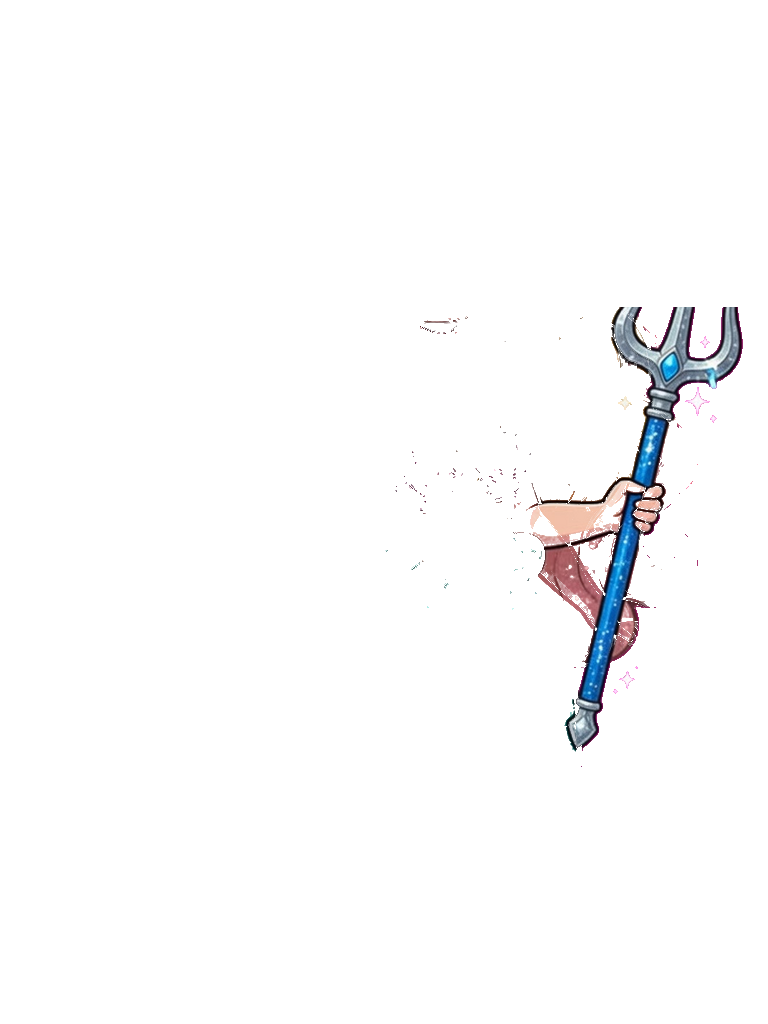
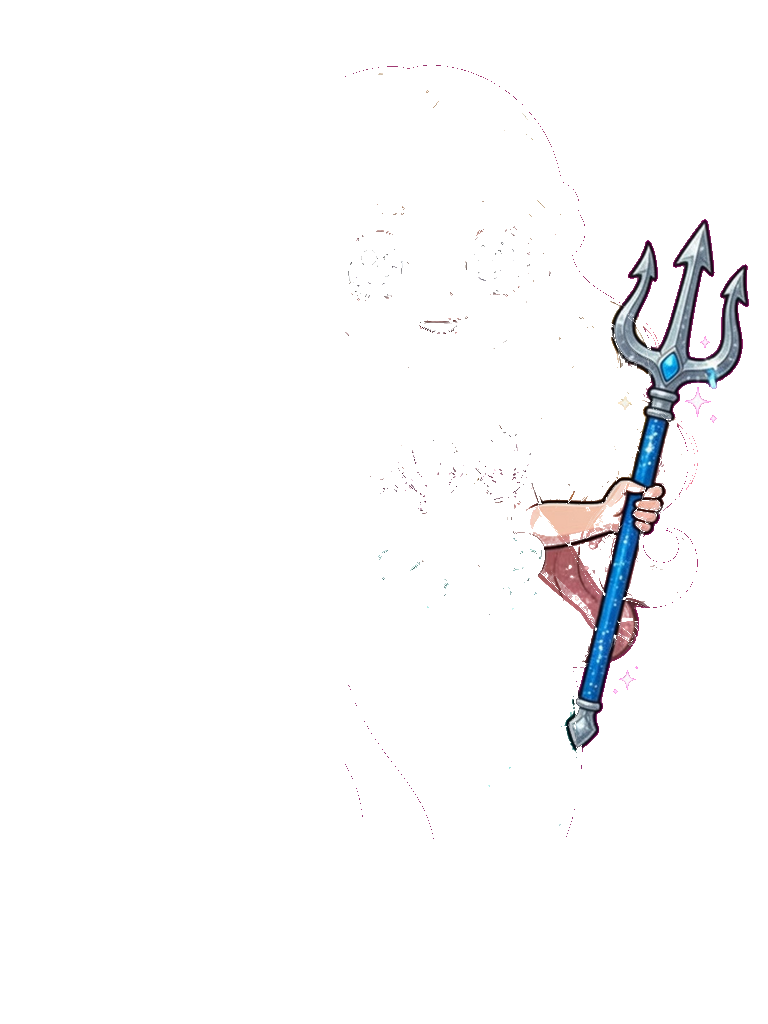
Fix Hold items sliced at the top (v1.0.014)
Prop extract ROI started at 30% frame height, which cleanly cut off
trident prongs and mirror tops. Re-extract all Hold layers with a taller
window and keep the pipeline ROI in sync.

Changed region(s): [[0.8125, 0.2188, 1.0, 0.3125]]

diff --git a/js/config.js b/js/config.js
@@ -1,7 +1,7 @@
 'use strict';
 
 // Mermaid Dress-Up — Keep CACHE in sw.js in sync: 'dress-up-mermaid-' + GAME_VERSION
-const GAME_VERSION = '1.0.013';
+const GAME_VERSION = '1.0.014';
 const GAME_VERSION_LABEL = 'v' + GAME_VERSION;
 const GAME_NAME = 'Mermaid Dress-Up';
 

diff --git a/sw.js b/sw.js
@@ -1,5 +1,5 @@
 // Mermaid Dress-Up — bump with GAME_VERSION in js/config.js
-const CACHE = 'dress-up-mermaid-1.0.013';
+const CACHE = 'dress-up-mermaid-1.0.014';
 
 const ASSETS = [
   './',
